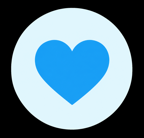
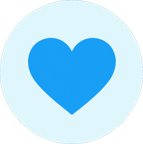
fix

diff --git a/components/funnel/LandingScreen.tsx b/components/funnel/LandingScreen.tsx
@@ -170,14 +170,14 @@ export async function LandingScreen({
   const initialProductId = resolvePreselect(products, colorRaw);
 
   const Hero = (
-    <section className="relative z-10 mx-auto max-w-6xl px-2 sm:px-3 pt-4">
+    <section className="relative z-10 mx-auto max-w-6xl px-0 pt-2 sm:px-3 sm:pt-4">
       {/* DESKTOP — exact mockup image */}
       <a href="#order-form" aria-label="এখনই অর্ডার করুন" className="hidden md:block overflow-hidden rounded-[1.4rem] shadow-soft ring-1 ring-black/5">
         <Image src="/hero-full.jpg" alt="ড্রিম কমফোর্ট — প্রিমিয়াম ডাবল লেয়ার প্রেগনেন্সি পিলো সেট" width={2000} height={760} priority sizes="1152px" className="w-full h-auto" />
       </a>
 
       {/* MOBILE — same content, re-laid for readability */}
-      <div className="md:hidden overflow-hidden rounded-[1.4rem] bg-gradient-to-br from-accent-light/70 via-accent-light/50 to-brand-light/50 px-5 pt-6 pb-6 shadow-soft ring-1 ring-black/5">
+      <div className="md:hidden overflow-hidden rounded-b-[1.6rem] bg-gradient-to-br from-accent-light/70 via-accent-light/50 to-brand-light/50 px-5 pt-6 pb-6 shadow-sm sm:rounded-[1.4rem] sm:ring-1 sm:ring-black/5">
         <span className="inline-flex items-center gap-2 rounded-full bg-accent/20 px-3.5 py-1.5 text-[12px] font-bold text-accent-dark">
           <svg viewBox="0 0 24 24" className="h-3.5 w-3.5 fill-accent" aria-hidden><path d="M12 21s-6.7-4.4-9.3-8.2C.9 10 1.6 6.5 4.4 5.3c1.9-.8 3.9-.2 5.2 1.3L12 9l2.4-2.4c1.3-1.5 3.3-2.1 5.2-1.3 2.8 1.2 3.5 4.7 1.7 7.5C18.7 16.6 12 21 12 21z"/></svg>
           মায়েদের জন্য বিশেষভাবে ডিজাইন করা
@@ -235,7 +235,7 @@ export async function LandingScreen({
   }
 
   return (
-    <div className="-mt-6 relative">
+    <div className="-mt-6 relative overflow-x-clip">
       <LandingBodyClass />
 
       <div aria-hidden className="pointer-events-none absolute inset-0 overflow-hidden -z-10">
